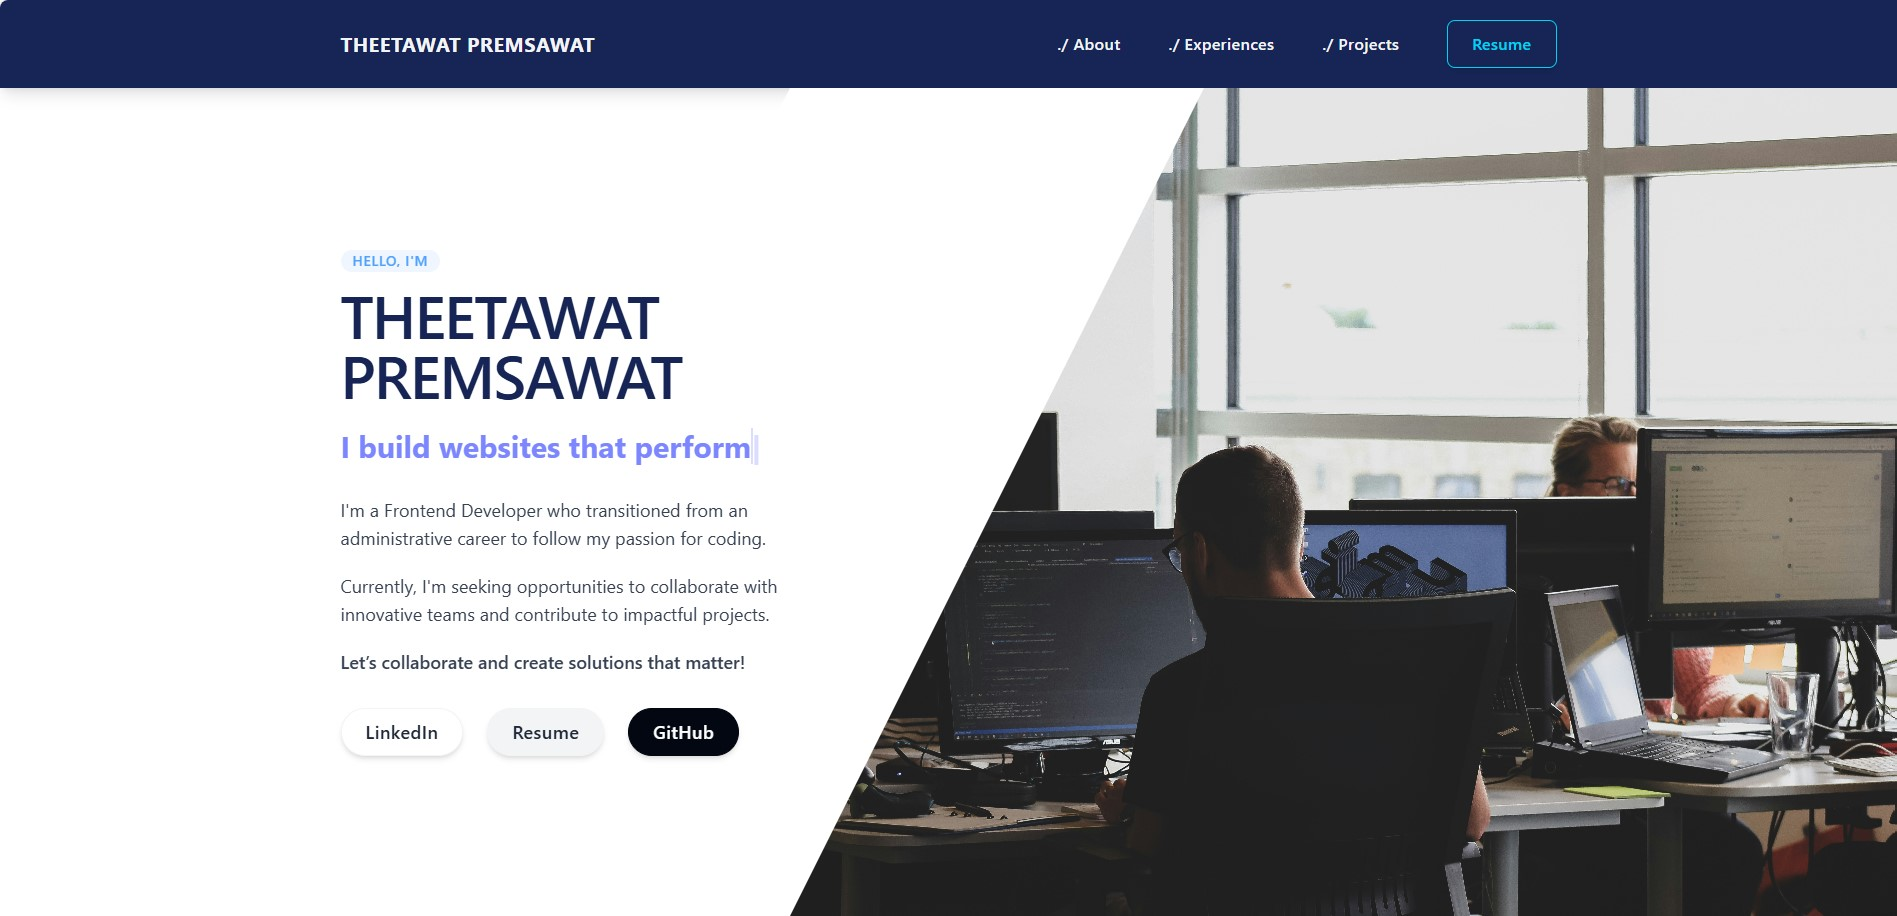
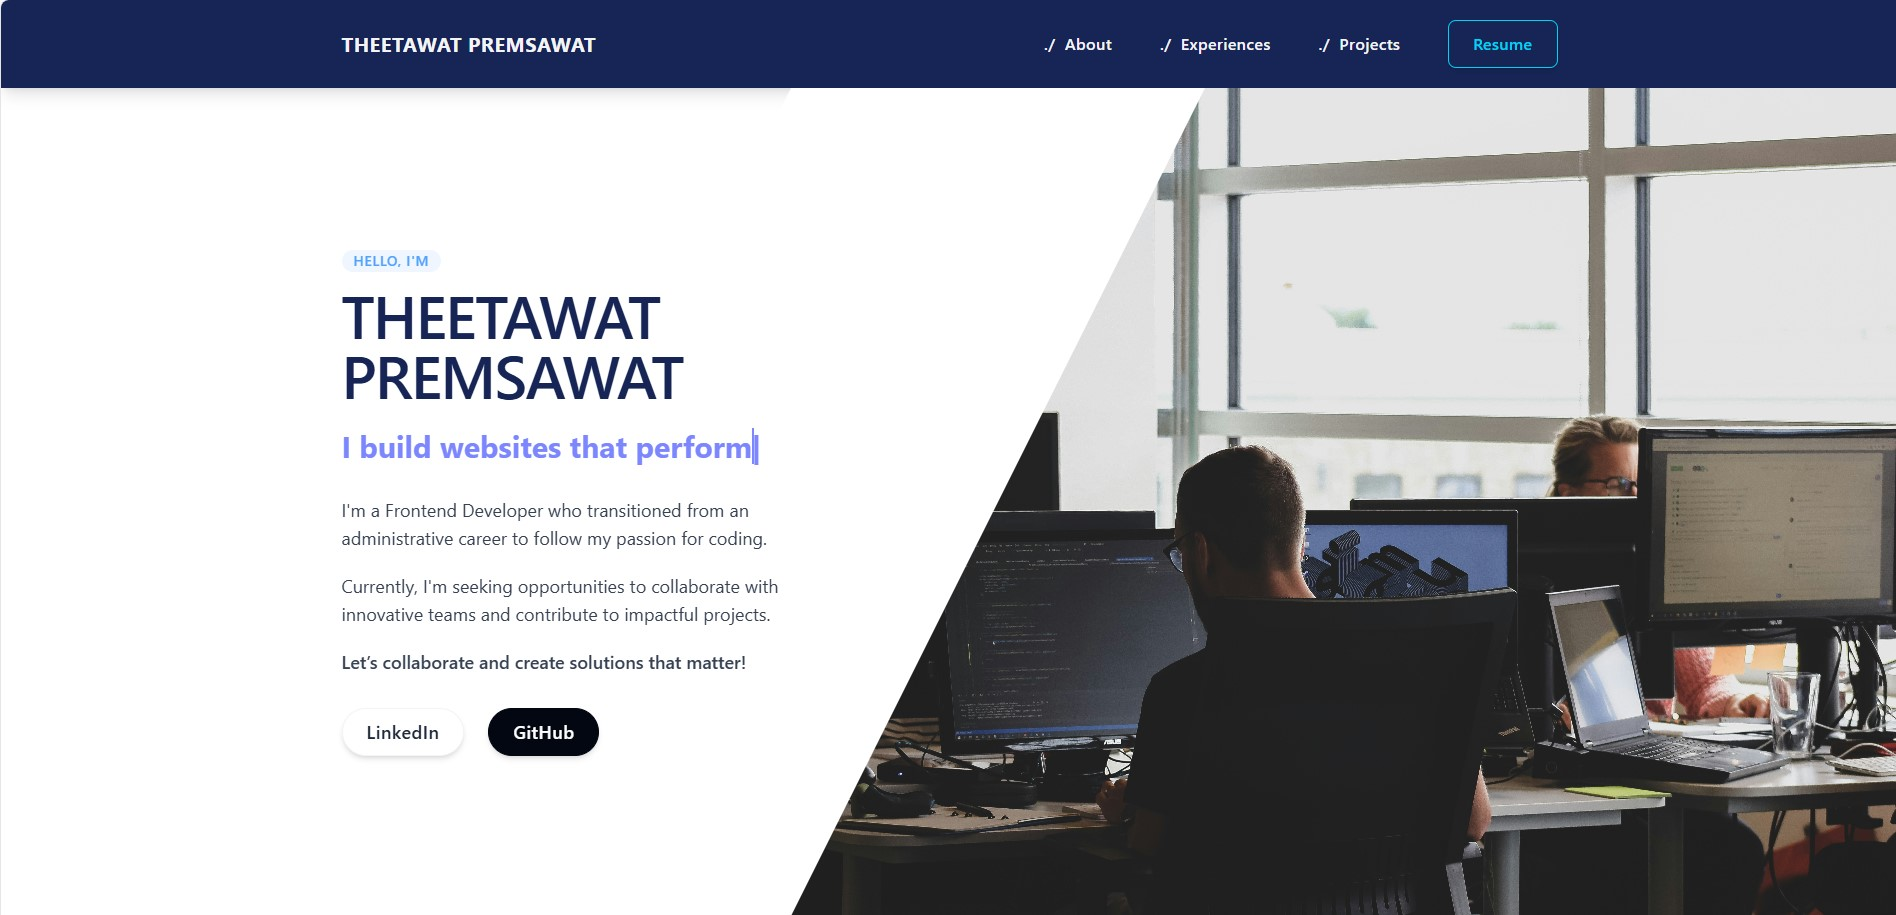
commit

diff --git a/src/components/layout/NavBar.tsx b/src/components/layout/NavBar.tsx
@@ -26,7 +26,7 @@ const NavBar: React.FC = () => {
                 title="About"
                 className="font-medium tracking-wide text-gray-100 transition-colors duration-500 hover:text-gray-400"
               >
-                ./ About
+                ./&nbsp; About
               </a>
             </li>
             <li>
@@ -36,7 +36,7 @@ const NavBar: React.FC = () => {
                 title="Experiences"
                 className="font-medium tracking-wide text-gray-100 transition-colors duration-500 hover:text-gray-400"
               >
-                ./ Experiences
+                ./&nbsp; Experiences
               </a>
             </li>
             <li>
@@ -46,7 +46,7 @@ const NavBar: React.FC = () => {
                 title="Projects"
                 className="font-medium tracking-wide text-gray-100 transition-colors duration-500 hover:text-gray-400"
               >
-                ./ Projects
+                ./&nbsp; Projects
               </a>
             </li>
             {/* <li>
@@ -135,7 +135,7 @@ const NavBar: React.FC = () => {
                             title="About"
                             className="font-medium tracking-wide text-gray-700 transition-colors duration-200 hover:text-blue-900"
                           >
-                            ./ About
+                            ./&nbsp; About
                           </a>
                         </li>
                         <li>
@@ -145,7 +145,7 @@ const NavBar: React.FC = () => {
                             title="Experiences"
                             className="font-medium tracking-wide text-gray-700 transition-colors duration-200 hover:text-blue-900"
                           >
-                            ./ Experiences
+                            ./&nbsp; Experiences
                           </a>
                         </li>
                         <li>
@@ -155,7 +155,7 @@ const NavBar: React.FC = () => {
                             title="Projects"
                             className="font-medium tracking-wide text-gray-700 transition-colors duration-200 hover:text-blue-900"
                           >
-                            ./ Projects
+                            ./&nbsp; Projects
                           </a>
                         </li>
                         {/* <li>

diff --git a/src/components/layout/Footer.tsx b/src/components/layout/Footer.tsx
@@ -5,6 +5,11 @@ const Footer = () => {
       <div className="container mx-auto text-center">
         <p>&copy; {new Date().getFullYear()} <a href="#" className="hover:text-gray-300">Theetawat Premsawat</a>. All rights reserved.</p>
         <div className="mt-4 space-x-4">
+          <a href="#about" className="hover:text-gray-300" target="_blank" rel="noopener noreferrer">./&nbsp; About</a>
+          <a href="#experiences" className="hover:text-gray-300" target="_blank" rel="noopener noreferrer">./&nbsp; Experiences</a>
+          <a href="#projects" className="hover:text-gray-300" target="_blank" rel="noopener noreferrer">./&nbsp; Projects</a>
+        </div>
+        <div className="mt-4 space-x-4">
           <a href="https://www.linkedin.com/in/theetawat-premsawat/" className="hover:text-gray-300" target="_blank" rel="noopener noreferrer">LinkedIn</a>
           <a href="https://github.com/TheetawatCode" className="hover:text-gray-300" target="_blank" rel="noopener noreferrer">GitHub</a>
         </div>
